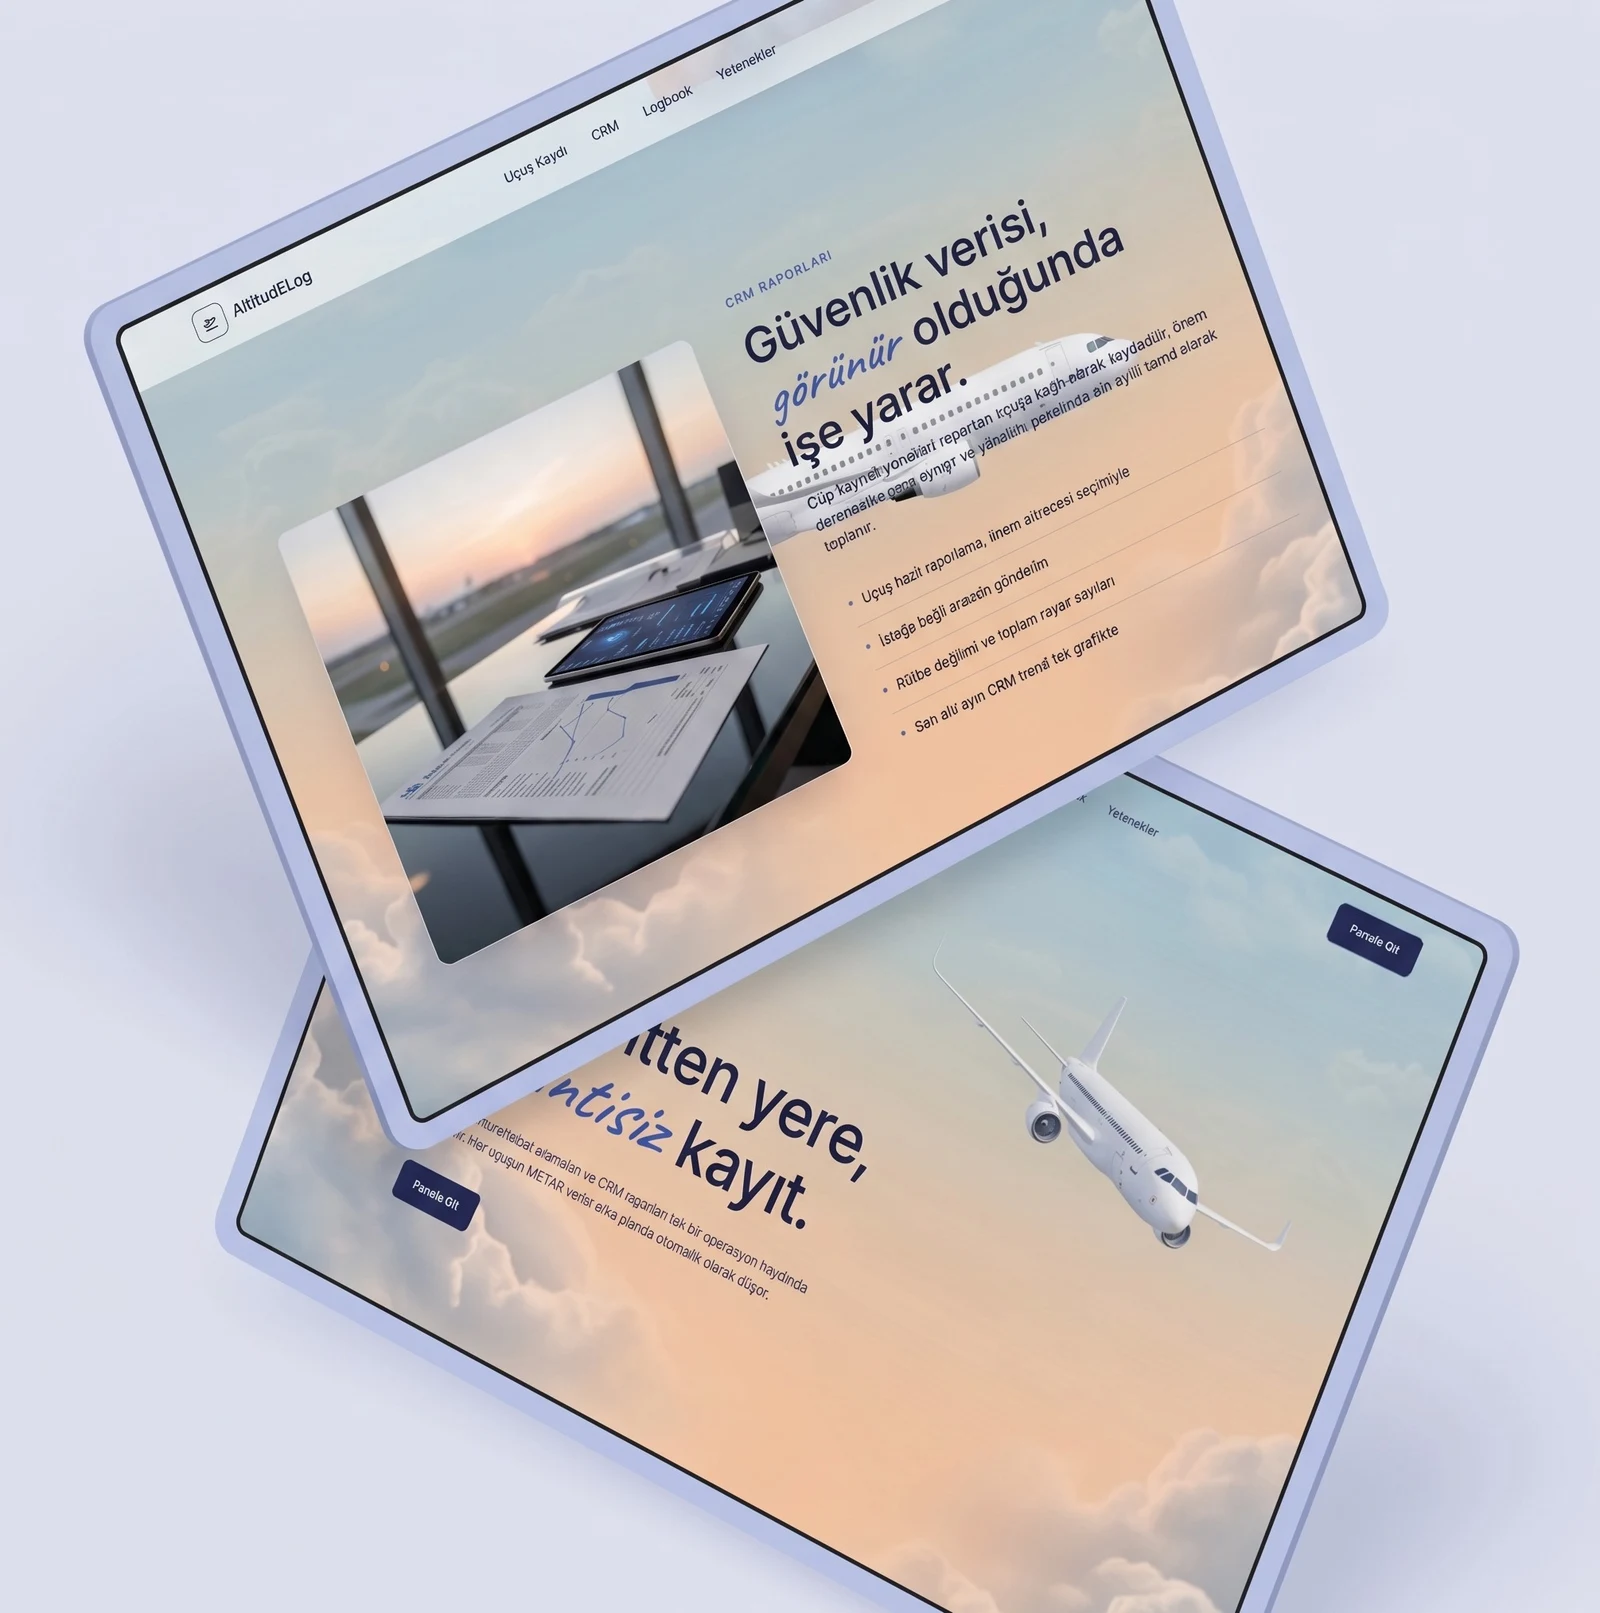
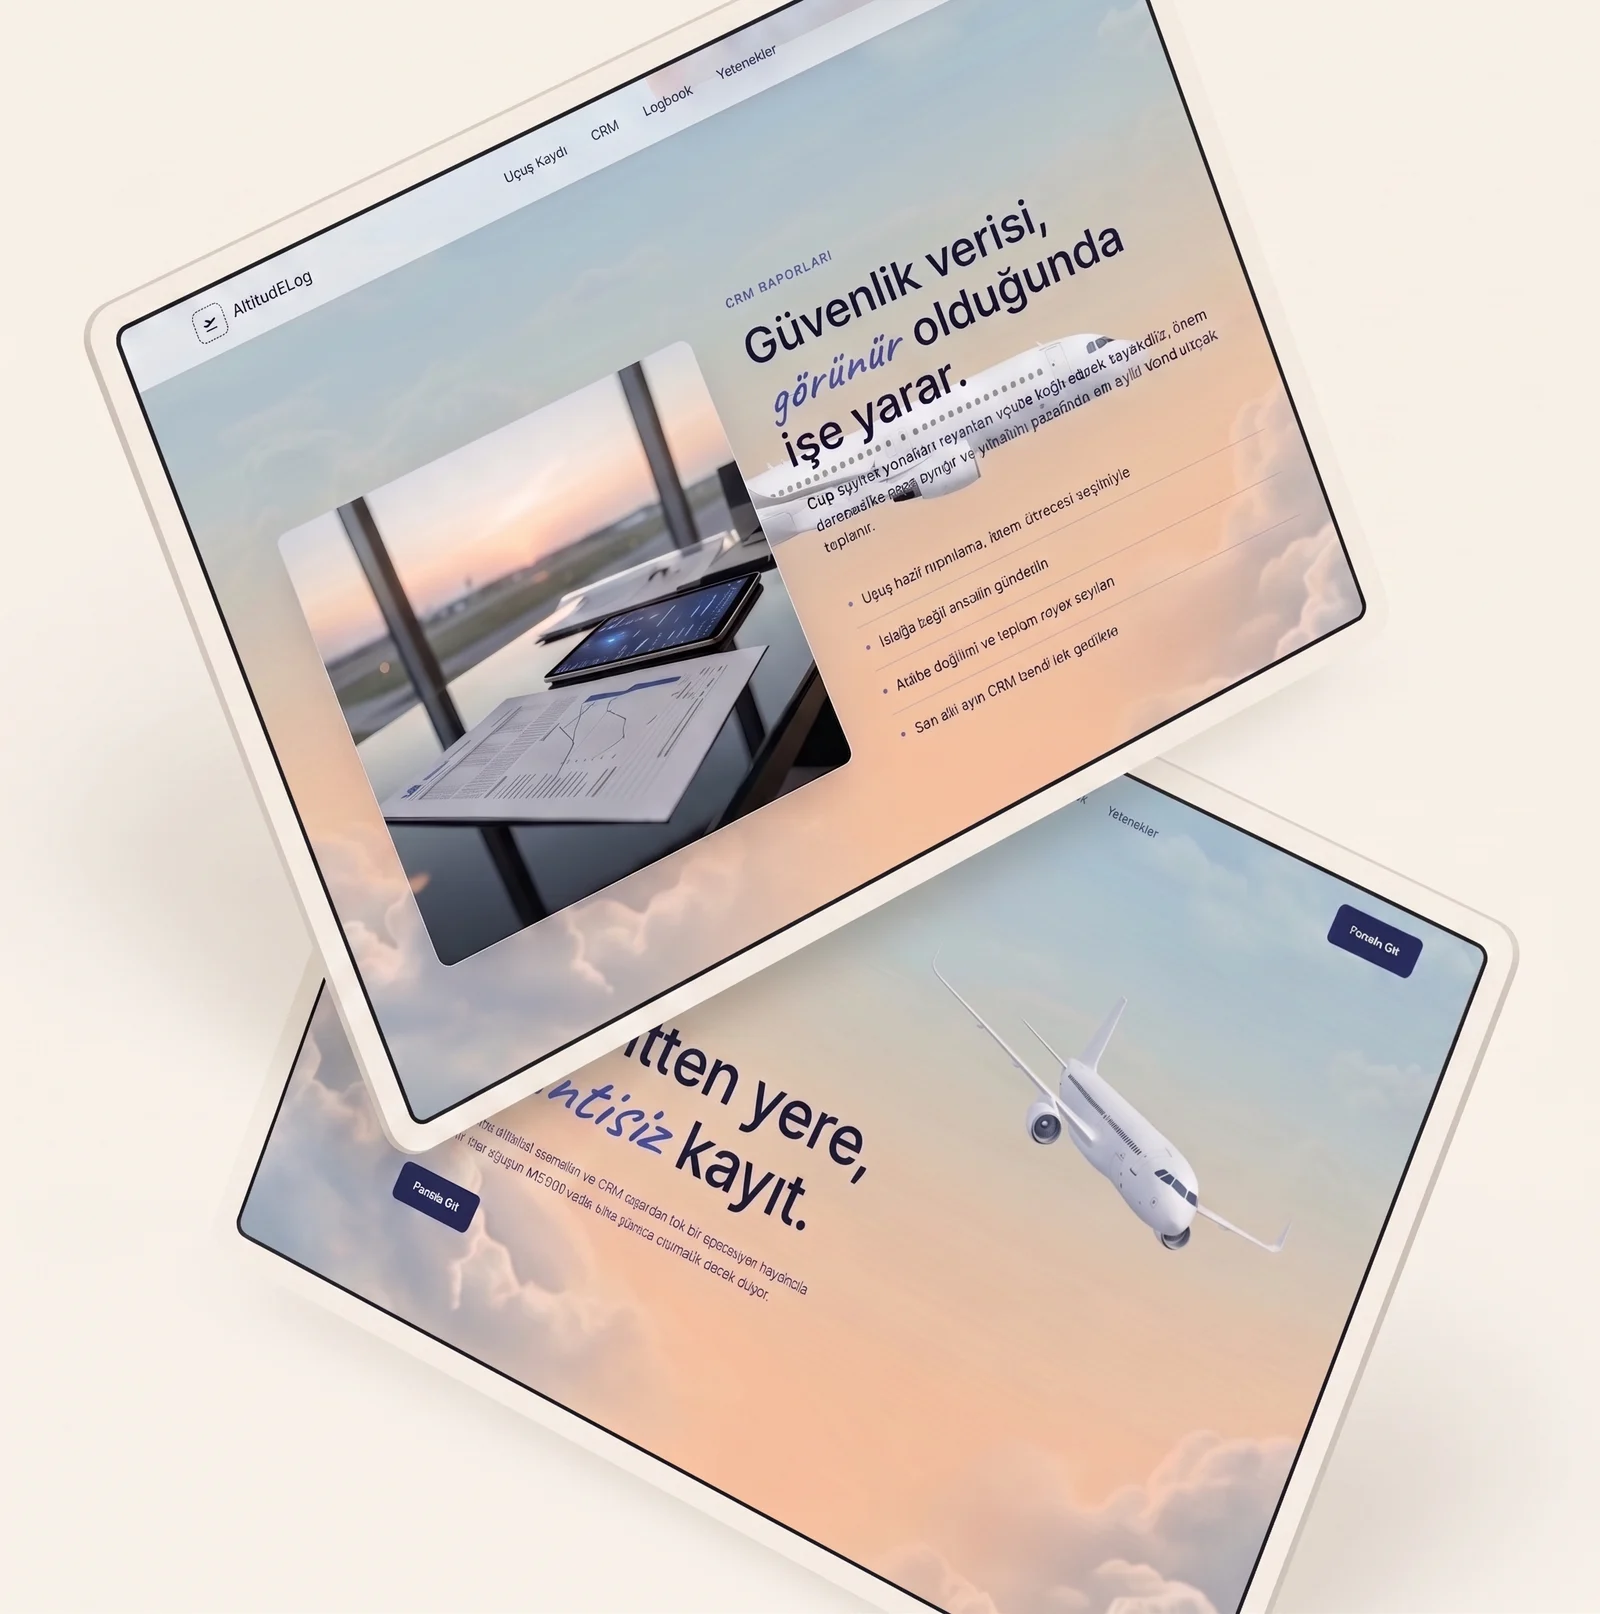
feat: replace the three project covers with the owner's new images
New artwork for all three mosaic cards and detail-page LCP figures,
supplied as ProfileDolfin.jpg, ProfileTakeauction.png and
ProfileAltitudelog.jpg and converted to the standard the rest of
src/assets already ships: max 1600px wide, WebP, no enlargement, sources
deleted. The .webp filenames are unchanged, so nothing that imports them
had to move.

Quality was measured rather than assumed, the same PSNR check
scripts/optimize-images.mjs runs against a losslessly-resized original.
dolfin and takeauction encode at q90 (45.4 dB / 46.7 dB). altitudelog
would have been 162 KB at q90 - over the ~150 KB this repo ships - so it
takes q86 instead: 129 KB at 42.9 dB, still comfortably past the ~40 dB
visually-lossless mark and close to the 144 KB the old file weighed.

The new covers keep the shapes the mosaic needs. dolfin is index 0, the
tall featured cell, and stays portrait at h/w 1.351; takeauction (0.658)
and altitudelog (1.009) stay inside the 1.05 ceiling the other two cells
want. projectCovers.test.ts already pinned that property, so it verified
the swap rather than merely surviving it.

Dimensions in projectCovers.ts are read back off the written .webp files,
never computed from a source size and a target width - a resize rounds,
and dolfin landed on 2162 rather than the 2161 the arithmetic predicts.

ProjectCard.test.tsx and ProjectDetailPage.test.tsx now DERIVE the cover
dimensions from getProjectCover instead of repeating the literals. Those
[…]

diff --git a/src/components/ProjectCard.test.tsx b/src/components/ProjectCard.test.tsx
@@ -3,6 +3,7 @@ import { describe, expect, it } from 'vitest'
 import ProjectCard from './ProjectCard'
 import { renderWithRouter } from '../test/renderWithRouter'
 import { getProjectBySlug } from '../data/projects'
+import { getProjectCover } from '../data/projectCovers'
 
 // Looked up by slug, not by index: the PROJECTS.tr array order is the home-page
 // grid display order and is expected to change without breaking this test.
@@ -38,7 +39,13 @@ describe('ProjectCard', () => {
     expect(screen.getByRole('link')).toHaveAccessibleName(/DOLFIN/)
   })
 
+  // The dimensions are DERIVED from the covers table rather than written out
+  // again here. src/data/projectCovers.test.ts is the one place that pins the
+  // literal numbers; this test is about the img carrying its intrinsics at
+  // all, so repeating them only meant that swapping a cover broke three files
+  // instead of one - which is exactly what happened.
   it('renders the cover image with the true intrinsic attributes', () => {
+    const cover = getProjectCover('dolfin')!
     const { container } = renderWithRouter(
       <ul>
         <ProjectCard project={dolfin} index={1} />
@@ -47,8 +54,8 @@ describe('ProjectCard', () => {
     const img = container.querySelector('img')!
     expect(img).toHaveAttribute('loading', 'lazy')
     expect(img).toHaveAttribute('decoding', 'async')
-    expect(img).toHaveAttribute('width', '1600')
-    expect(img).toHaveAttribute('height', '2161')
+    expect(img).toHaveAttribute('width', String(cover.width))
+    expect(img).toHaveAttribute('height', String(cover.height))
     expect(img).toHaveAttribute('alt', '')
     expect(img.getAttribute('fetchpriority')).toBeNull()
   })

diff --git a/src/pages/ProjectDetailPage.test.tsx b/src/pages/ProjectDetailPage.test.tsx
@@ -2,6 +2,7 @@ import { screen } from '@testing-library/react'
 import { describe, expect, it } from 'vitest'
 import App from '../App'
 import { PROJECTS, getProjectBySlug } from '../data/projects'
+import { getProjectCover } from '../data/projectCovers'
 import { renderWithRouter } from '../test/renderWithRouter'
 
 describe('ProjectDetailPage', () => {
@@ -53,8 +54,10 @@ describe('ProjectDetailPage', () => {
     expect(firstImage).toHaveAttribute('loading', 'eager')
     expect(firstImage).toHaveAttribute('fetchpriority', 'high')
     expect(firstImage).toHaveAttribute('alt', '')
-    expect(firstImage).toHaveAttribute('width', '1600')
-    expect(firstImage).toHaveAttribute('height', '2161')
+    // Derived, not repeated - see the note in ProjectCard.test.tsx.
+    const cover = getProjectCover('dolfin')!
+    expect(firstImage).toHaveAttribute('width', String(cover.width))
+    expect(firstImage).toHaveAttribute('height', String(cover.height))
   })
 
   it('links to the live demo of whichever project is on screen, opened safely', () => {

diff --git a/src/data/projectCovers.test.ts b/src/data/projectCovers.test.ts
@@ -10,10 +10,13 @@ describe('getProjectCover', () => {
     }
   })
 
+  // Read back off the written .webp files, not computed - these exist to
+  // reserve the right space before the image loads, so a value that merely
+  // looks plausible is worse than no value at all.
   it('has the exact measured dimensions per project', () => {
-    expect(getProjectCover('dolfin')).toMatchObject({ width: 1600, height: 2161 })
-    expect(getProjectCover('takeauction')).toMatchObject({ width: 1379, height: 909 })
-    expect(getProjectCover('altitudelog')).toMatchObject({ width: 1600, height: 1613 })
+    expect(getProjectCover('dolfin')).toMatchObject({ width: 1600, height: 2162 })
+    expect(getProjectCover('takeauction')).toMatchObject({ width: 1375, height: 905 })
+    expect(getProjectCover('altitudelog')).toMatchObject({ width: 1600, height: 1614 })
   })
 
   it('returns undefined for an unknown slug', () => {

diff --git a/src/data/projectCovers.ts b/src/data/projectCovers.ts
@@ -26,10 +26,13 @@ export type ProjectCover = {
   height: number
 }
 
+// Dimensions are read back off the written .webp, never computed from the
+// source and a target width - a resize rounds, and a height that is one pixel
+// out is a height that no longer describes the file.
 const PROJECT_COVERS: Record<string, ProjectCover> = {
-  dolfin: { src: profileDolfin, width: 1600, height: 2161 },
-  takeauction: { src: profileTakeauction, width: 1379, height: 909 },
-  altitudelog: { src: profileAltitudelog, width: 1600, height: 1613 },
+  dolfin: { src: profileDolfin, width: 1600, height: 2162 },
+  takeauction: { src: profileTakeauction, width: 1375, height: 905 },
+  altitudelog: { src: profileAltitudelog, width: 1600, height: 1614 },
 }
 
 export function getProjectCover(slug: string): ProjectCover | undefined {
